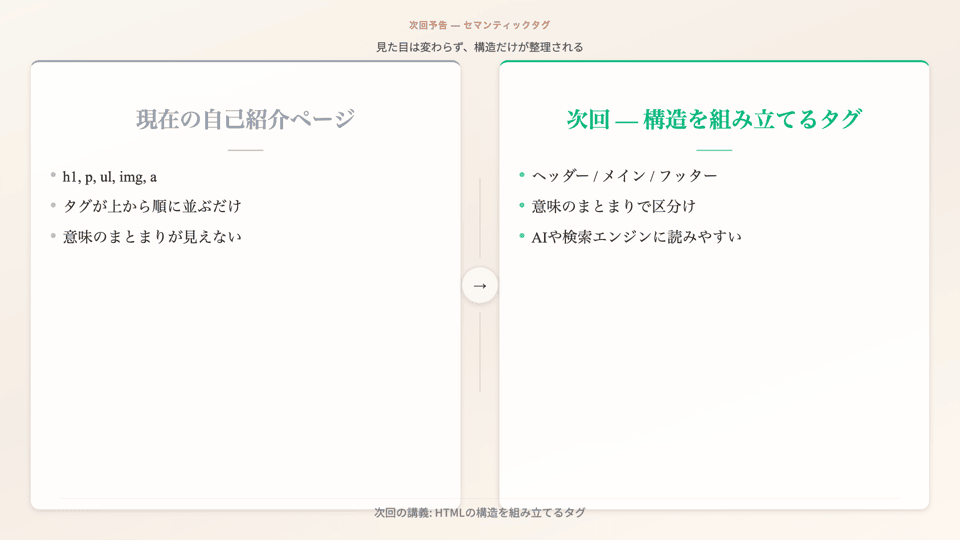
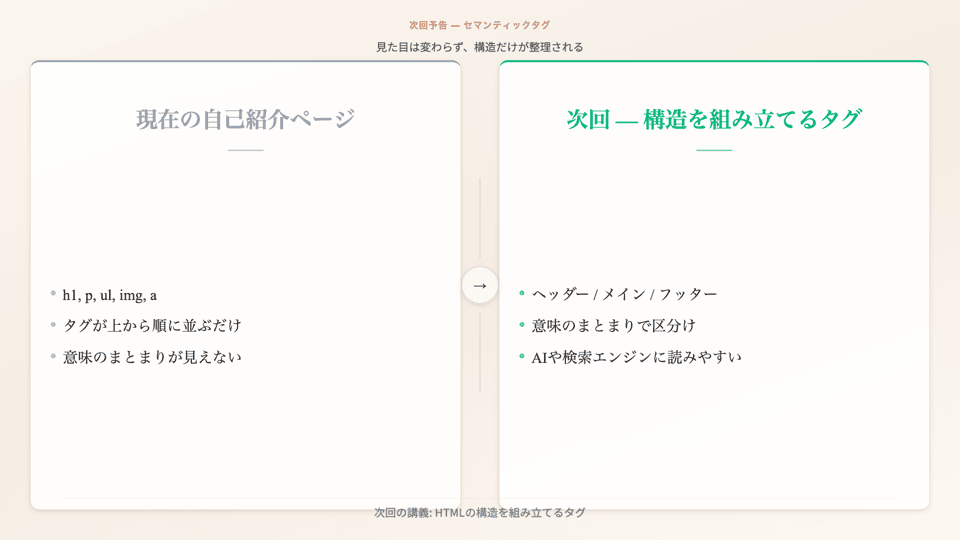
fix(remotion): 5개 컴포넌트 빈 공간·엣지 시인성 보강
PR #135 검수에서 도출된 잠재 이슈 3건 일괄 해소:

1. 화면 하단 빈 공간 — 컴포넌트 내부 콘텐츠가 상단 정렬되어 있어 정보가 위쪽에 몰림
   - BulletDetailScreen.items: justifyContent 'center' (수직 중앙 정렬)
   - IconListScreen.items: justifyContent 'center'
   - ComparisonScreen.points: flex 1 + justifyContent 'center'
   - TwoColumnScreen.panel: display flex + flexDirection column + justifyContent 'center'

2. DiagramScreen 엣지 시인성 — "繋がり" 임팩트가 묻힘
   - stroke 2.5px → 4px, opacity 0.75 → 0.92

after still 6장 재렌더링하여 docs/assets/issue-126/ 갱신.

이 컴포넌트 변경은 19강(영상 미생성) 의 신규 변환과 향후 6강 재렌더링에
공통 적용됨. 이미 렌더링된 6강 영상 자체에는 영향 없음.

diff --git a/packages/remotion/src/components/DiagramScreen.tsx b/packages/remotion/src/components/DiagramScreen.tsx
@@ -244,11 +244,11 @@ export const DiagramScreen: React.FC<DiagramScreenProps> = ({
                   d={pathD}
                   fill="none"
                   stroke={theme.infographic.connector}
-                  strokeWidth={2.5}
+                  strokeWidth={4}
                   strokeLinecap="round"
                   strokeDasharray={approxLen}
                   strokeDashoffset={dashOffset}
-                  opacity={0.75}
+                  opacity={0.92}
                   markerEnd={`url(#arrowhead-${arrowId})`}
                 />
 

diff --git a/packages/remotion/src/components/ComparisonScreen.tsx b/packages/remotion/src/components/ComparisonScreen.tsx
@@ -111,7 +111,7 @@ export const ComparisonScreen: React.FC<ComparisonScreenProps> = ({
           }}
         />
 
-        <div style={{ display: 'flex', flexDirection: 'column', gap: 16 }}>
+        <div style={{ display: 'flex', flexDirection: 'column', gap: 18, flex: 1, justifyContent: 'center' }}>
           {side.points.map((point, i) => {
             const baseDelay = isLeft ? pointBaseDelay[0] : pointBaseDelay[1];
             const pointDelay = baseDelay + i * pointInterval;

diff --git a/packages/remotion/src/components/TwoColumnScreen.tsx b/packages/remotion/src/components/TwoColumnScreen.tsx
@@ -90,7 +90,7 @@ export const TwoColumnScreen: React.FC<TwoColumnScreenProps> = ({
           variant="strong"
           borderAccent={colColor}
           borderPosition="top"
-          style={{ padding: '36px 40px', height: '100%' }}
+          style={{ padding: '36px 40px', height: '100%', display: 'flex', flexDirection: 'column', justifyContent: 'center' }}
         >
           {col.icon && (
             <div style={{ marginBottom: 20 }}>

diff --git a/packages/remotion/src/components/BulletDetailScreen.tsx b/packages/remotion/src/components/BulletDetailScreen.tsx
@@ -108,7 +108,7 @@ export const BulletDetailScreen: React.FC<BulletDetailScreenProps> = ({
         </div>
       )}
 
-      <div style={{ display: 'flex', flexDirection: 'column', gap: 20, flex: 1 }}>
+      <div style={{ display: 'flex', flexDirection: 'column', gap: 20, flex: 1, justifyContent: 'center' }}>
         {items.map((item, i) => {
           const itemDelay = baseDelay + i * interval;
           const itemSpring = spring({

diff --git a/packages/remotion/src/components/IconListScreen.tsx b/packages/remotion/src/components/IconListScreen.tsx
@@ -108,7 +108,7 @@ export const IconListScreen: React.FC<IconListScreenProps> = ({
         </div>
       )}
 
-      <div style={{ display: 'flex', flexDirection: 'column', gap: 18, flex: 1 }}>
+      <div style={{ display: 'flex', flexDirection: 'column', gap: 18, flex: 1, justifyContent: 'center' }}>
         {items.map((item, i) => {
           const itemDelay = baseDelay + i * interval;
           const itemSpring = spring({
